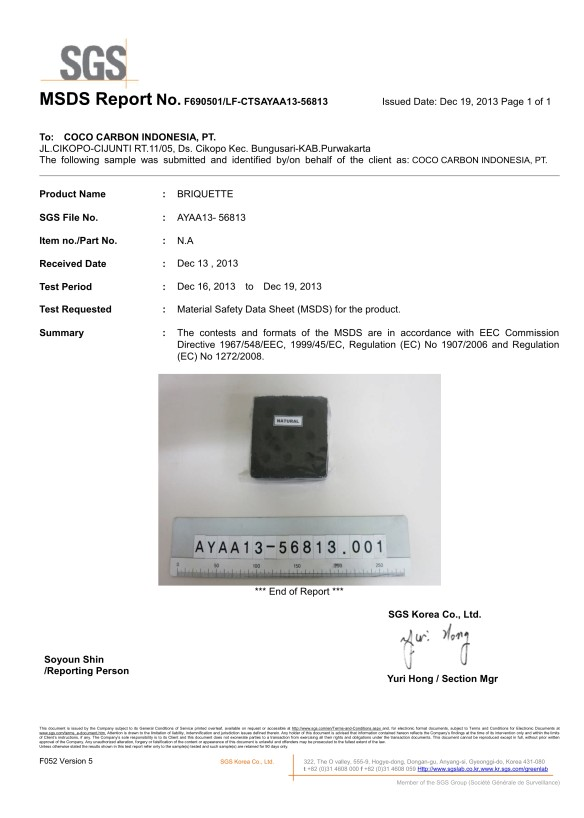
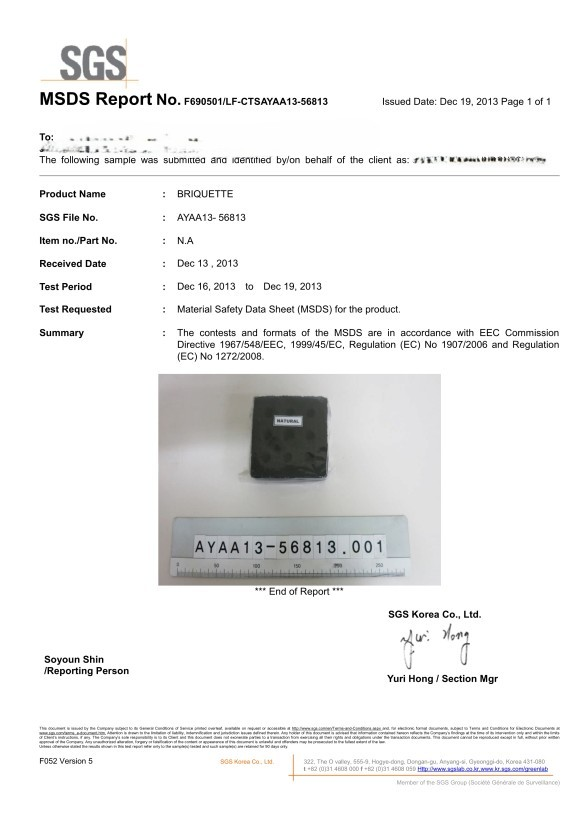
content(documents): replace the ISO 9001 preview with the NPWP card

diff --git a/src/assets/documents/README.md b/src/assets/documents/README.md
@@ -20,4 +20,4 @@ Taruh file di folder ini dengan nama persis seperti di tabel. File ini dibuat ot
 | `preview-msds-sgs` | P2 | MSDS Report dari SGS Korea Co., Ltd. (19 Desember 2013), data penerima disensor | 4:5 | 800 px | Pratinjau dokumen, halaman Kualitas & Dokumen | Syarat: Dokumen disetujui untuk publik. |
 | `preview-sk-kemenkum` | P2 | Keputusan Menteri Hukum RI tentang Pengesahan Pendirian Badan Hukum PT Permata Bara Globalindo (8 September 2026) | 4:5 | 500 px | Pratinjau dokumen, halaman Tentang Kami dan Kualitas & Dokumen | Syarat: Dokumen disetujui untuk publik. |
 | `preview-nib` | P2 | Perizinan Berusaha Berbasis Risiko (NIB) PT Permata Bara Globalindo (20 September 2026) | 4:5 | 500 px | Pratinjau dokumen, halaman Tentang Kami dan Kualitas & Dokumen | Syarat: Dokumen disetujui untuk publik. |
-| `preview-iso` | P2 | Sertifikat ISO 9001:2015 manufacturer | 4:5 | 1000 px | Kartu dokumen | Syarat: Cakupan dan masa berlaku diketahui; dokumen disetujui untuk publik. |
+| `preview-npwp` | P2 | Kartu NPWP PT Permata Bara Globalindo (terdaftar 10 September 2026) | 4:5 | 500 px | Pratinjau dokumen, halaman Tentang Kami dan Kualitas & Dokumen | Syarat: Dokumen disetujui untuk publik. |
